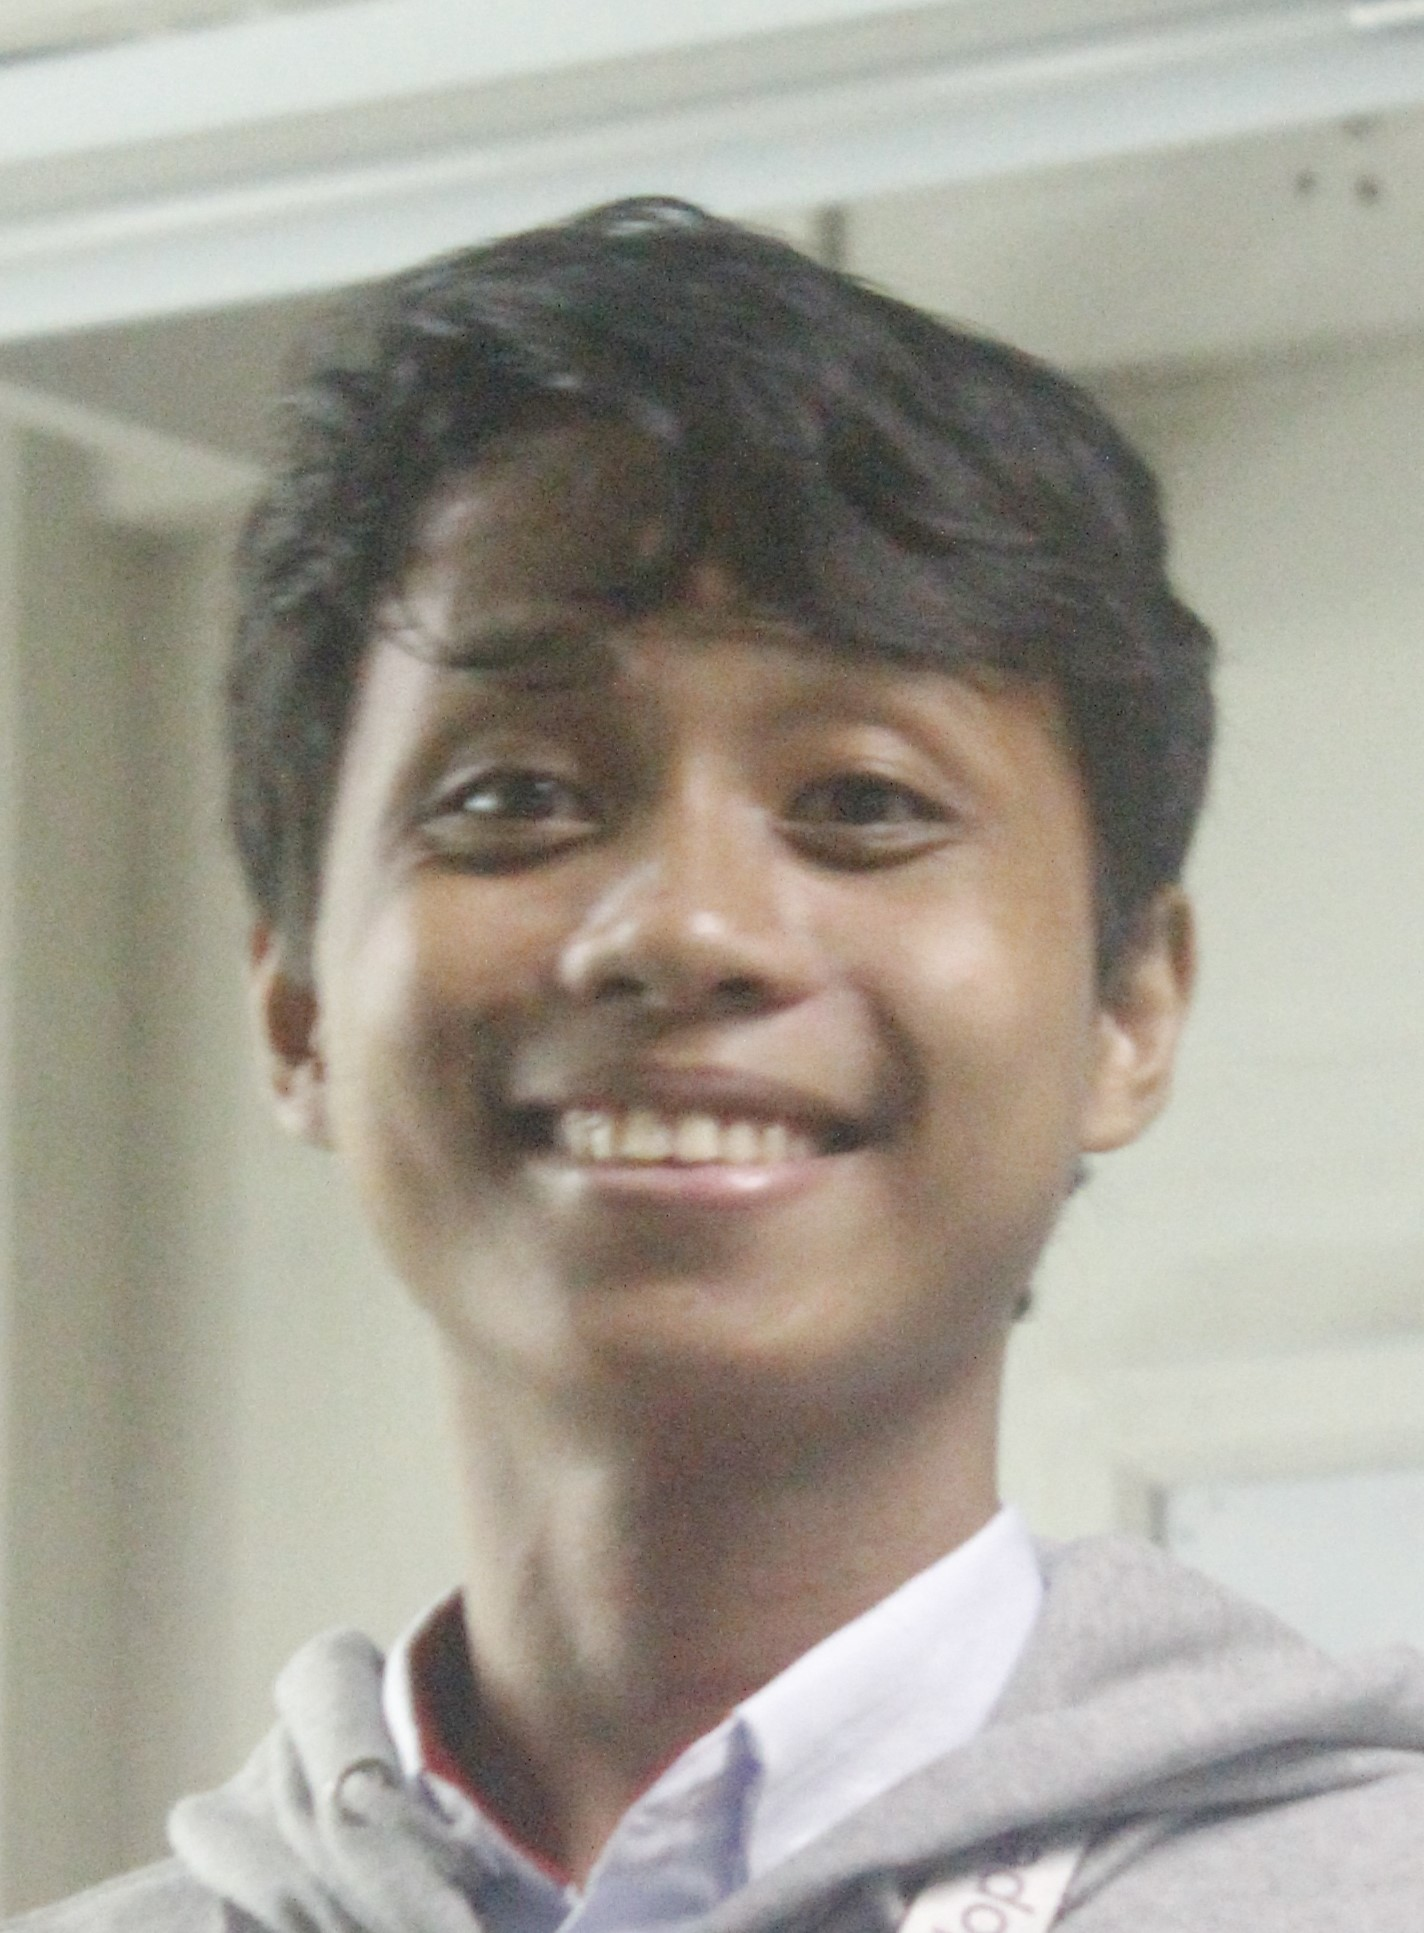
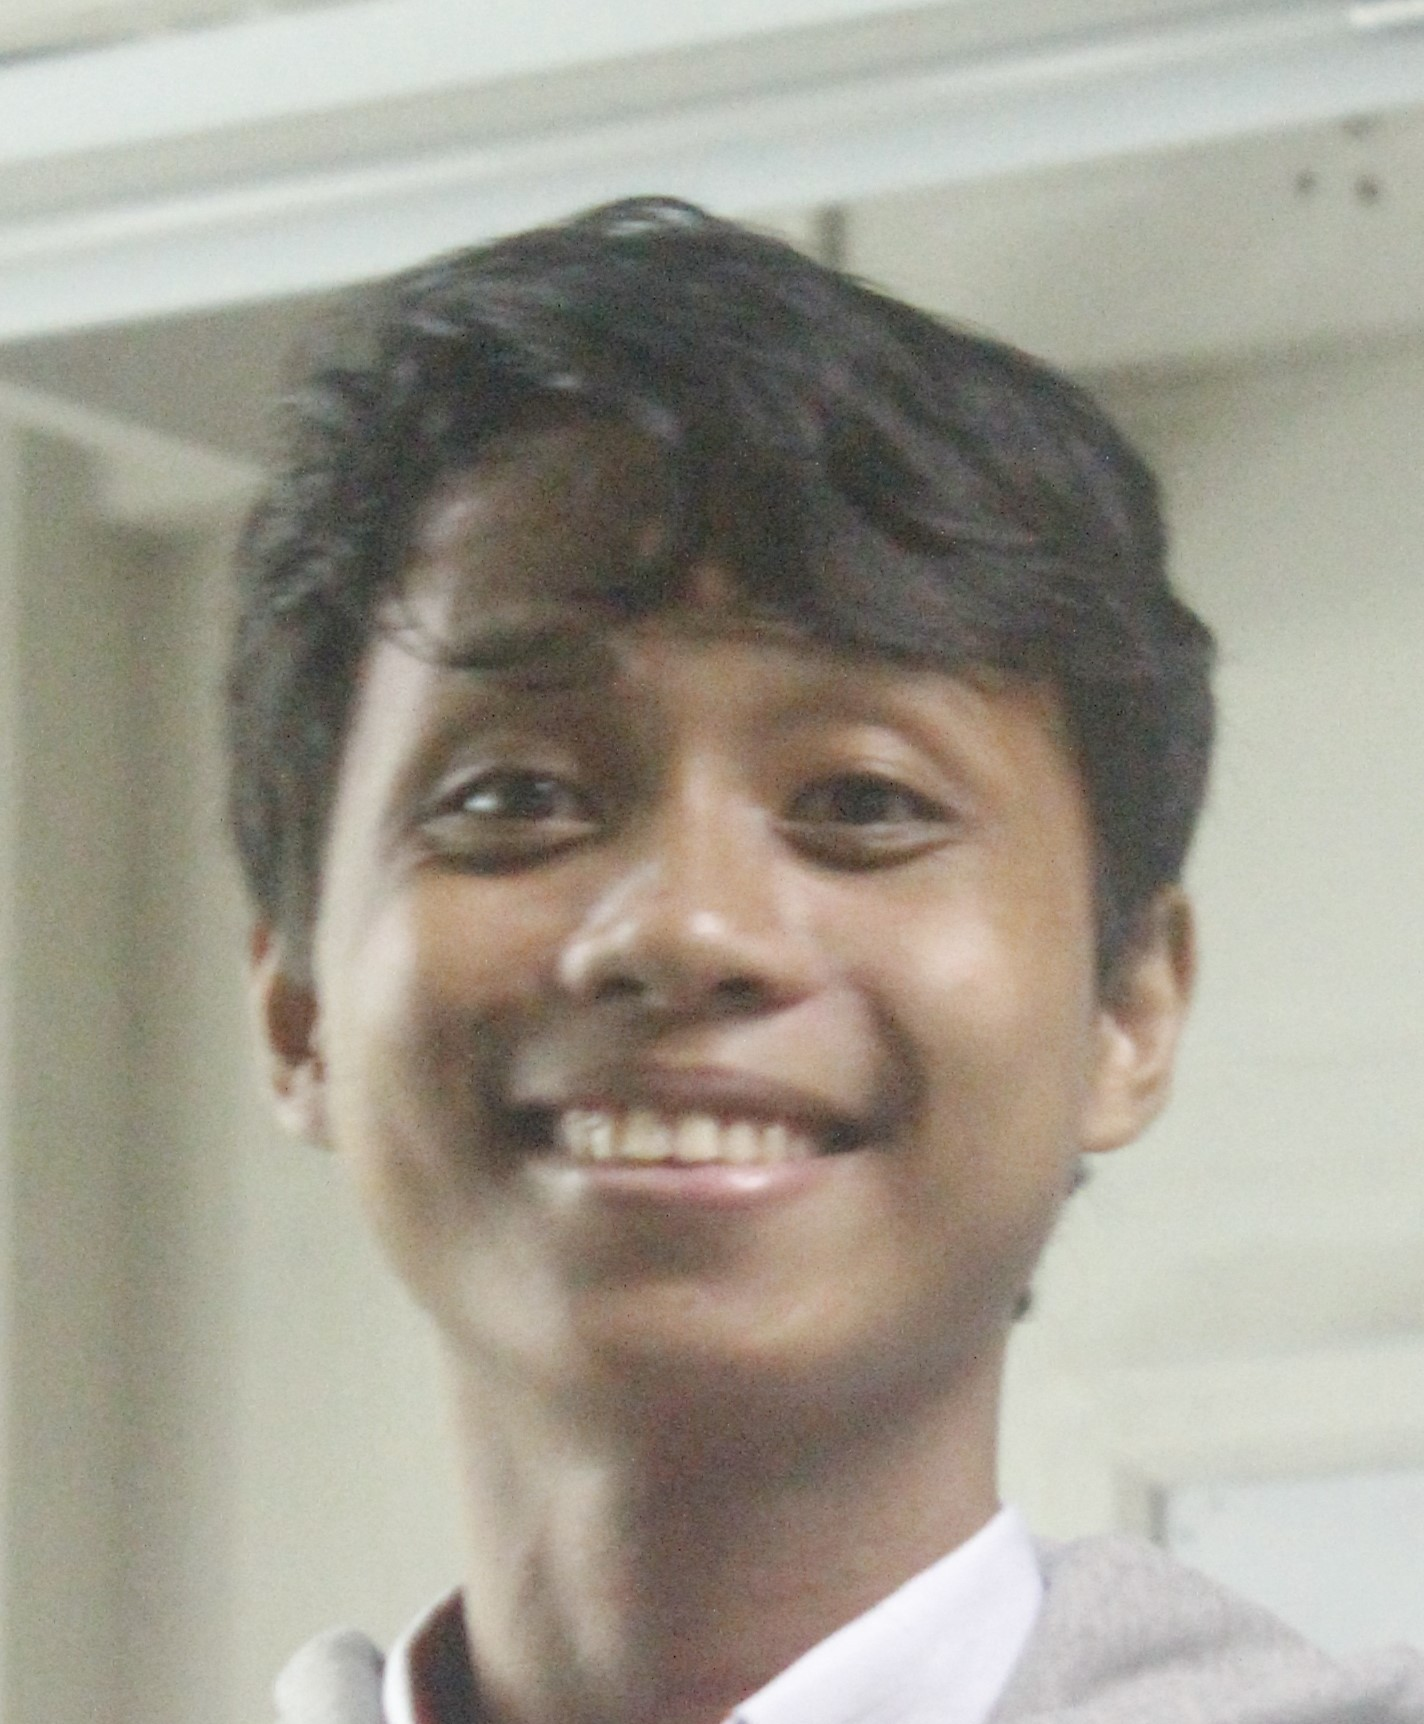
adjust resume page and profile pic shape

diff --git a/templates/resume.html b/templates/resume.html
@@ -332,7 +332,7 @@
                     <div class="col-10 col-md-12 col-xl-10 col-xxl-9 p-0">
       
                     <ul class="timeline">
-                        <li class="timeline-item left">
+                        <li class="timeline-item right">
                             <div class="timeline-body">
                                 <div class="timeline-meta">
                                 <div class="d-inline-flex flex-column px-2 py-1 text-white primary-background rounded-2 text-md-end">
@@ -343,6 +343,26 @@
                                 <div class="card primary-background border-0 shadow">
                                     <div class="card-body p-xl-4 text-white">
                                     <h2 class="card-title mb-2">GWA: 1.4</h2>
+                                    <h6 class="card-subtitle text-secondary mb-3">Freshman - Present</h6>
+                                    <p class="card-text m-0">
+                                        <!--Description here-->
+                                    </p>
+                                    </div>
+                                </div>
+                                </div>
+                            </div>
+                        </li>
+                        <li class="timeline-item left">
+                            <div class="timeline-body">
+                                <div class="timeline-meta">
+                                <div class="text-white d-inline-flex flex-column px-2 py-1 primary-background rounded-2 text-md-end">
+                                    <span>2024</span>
+                                </div>
+                                </div>
+                                <div class="timeline-content timeline-indicator">
+                                <div class="card primary-background border-0 shadow">
+                                    <div class="card-body p-xl-4 text-white">
+                                    <h2 class="card-title mb-2">College Scholar</h2>
                                     <h6 class="card-subtitle text-secondary mb-3">Junior year</h6>
                                     <p class="card-text m-0">
                                         <!--Description here-->
@@ -351,7 +371,7 @@
                                 </div>
                                 </div>
                             </div>
-                            </li>
+                        </li>
                         <li class="timeline-item right">
                             <div class="timeline-body">
                                 <div class="timeline-meta">
@@ -371,7 +391,7 @@
                                 </div>
                                 </div>
                             </div>
-                            </li>
+                        </li>
                         <li class="timeline-item left">
                         <div class="timeline-body">
                             <div class="timeline-meta">
@@ -510,7 +530,7 @@
                                 <p class="card-text description">
                                     <ul>
                                         <li>Proud advocate of open-source principles.</li>
-                                        <li>Created over 20 public projects across two GitHub accounts.</li>
+                                        <li>Created over 30 public projects across two GitHub accounts.</li>
                                         <li>All projects are licensed under GNU GPLv3</li>
                                     </ul>
                                 </p>

diff --git a/static/css/common.css b/static/css/common.css
@@ -110,7 +110,7 @@ h1 {
     padding: 16px;
     background-color: #1E1E1E;
     width: 200px; 
-    height: 220px; 
+    height: 200px; 
     object-fit: cover; 
     border-radius: 50%;
     margin-top: -70px;
